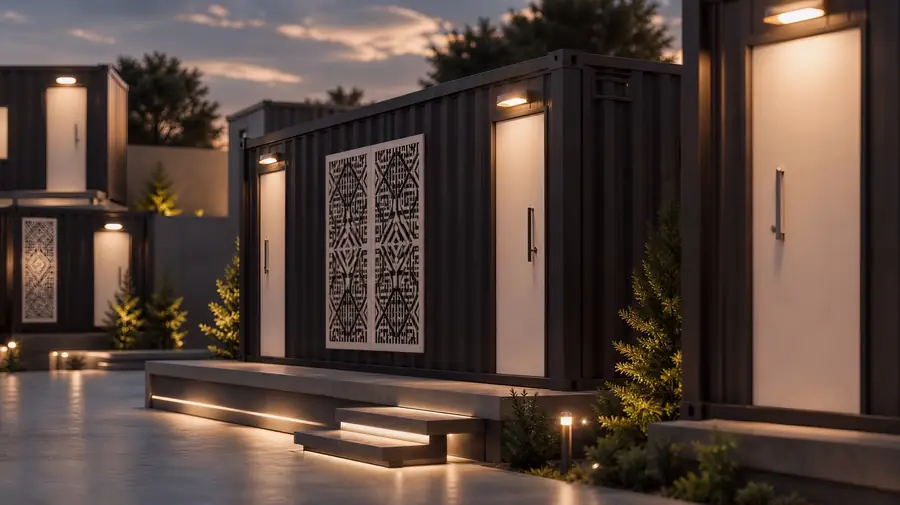
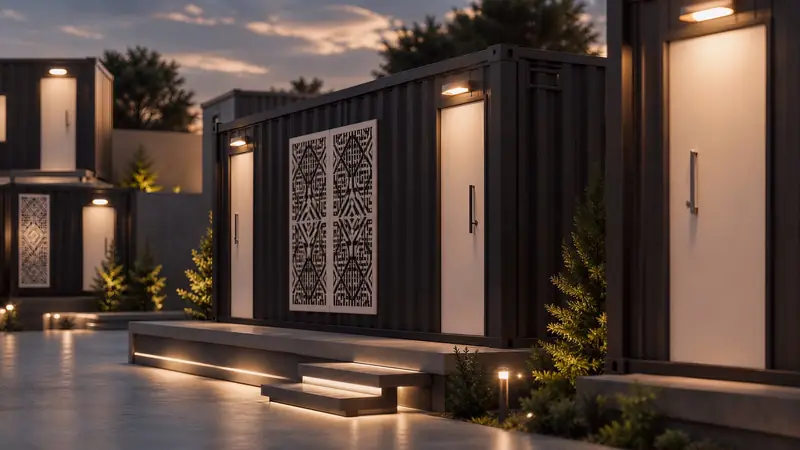
Fix PageSpeed: replace CMS Supabase JPGs, Cloudflare image cache, drop framer.
Map the live 1600px vision/rental uploads to display-sized WebPs, enable IMAGES binding plus public/_headers, and remove homepage framer-motion.

diff --git a/src/components/ProcessSection.tsx b/src/components/ProcessSection.tsx
@@ -1,6 +1,5 @@
 "use client";
 
-import { motion, useReducedMotion } from "framer-motion";
 import { ClipboardList, Factory, MessagesSquare } from "lucide-react";
 import { useLocalizedCms } from "@/components/CmsProvider";
 
@@ -8,7 +7,6 @@ const icons = [MessagesSquare, ClipboardList, Factory] as const;
 
 export function ProcessSection() {
   const { home, processSteps } = useLocalizedCms();
-  const reduceMotion = useReducedMotion();
 
   return (
     <section className="relative overflow-hidden bg-[#151b24] py-20 md:py-28">
@@ -31,13 +29,7 @@ export function ProcessSection() {
       />
 
       <div className="container-site relative">
-        <motion.div
-          className="mb-14 text-center"
-          initial={reduceMotion ? false : { opacity: 0, y: 20 }}
-          whileInView={{ opacity: 1, y: 0 }}
-          viewport={{ once: true, amount: 0.4 }}
-          transition={{ duration: 0.5 }}
-        >
+        <div className="mb-14 text-center animate-[fade-up_0.5s_ease-out_both]">
           <p className="mb-3 text-sm font-bold tracking-wide text-[var(--gold)]">
             {home.processEyebrow}
           </p>
@@ -48,23 +40,9 @@ export function ProcessSection() {
           <p className="mx-auto mt-5 max-w-xl text-sm leading-8 text-white/65 md:text-base">
             {home.processSubtitle}
           </p>
-        </motion.div>
+        </div>
 
-        <motion.div
-          className="relative grid gap-6 md:grid-cols-3 md:gap-7"
-          initial="hidden"
-          whileInView="visible"
-          viewport={{ once: true, amount: 0.25 }}
-          variants={{
-            hidden: {},
-            visible: {
-              transition: {
-                staggerChildren: reduceMotion ? 0 : 0.28,
-                delayChildren: reduceMotion ? 0 : 0.12,
-              },
-            },
-          }}
-        >
+        <div className="relative grid gap-6 md:grid-cols-3 md:gap-7">
           <div
             className="pointer-events-none absolute top-[4.5rem] right-[12%] left-[12%] hidden h-px bg-gradient-to-l from-transparent via-[var(--gold)]/40 to-transparent md:block"
             aria-hidden
@@ -73,20 +51,10 @@ export function ProcessSection() {
           {processSteps.map((step, index) => {
             const Icon = icons[index] ?? MessagesSquare;
             return (
-              <motion.article
+              <article
                 key={step.step}
-                className="group relative border border-white/10 bg-gradient-to-b from-white/[0.09] to-white/[0.03] p-8 text-center backdrop-blur-[2px] transition duration-300 hover:-translate-y-1.5 hover:border-[var(--gold)]/45 hover:bg-white/[0.12]"
-                variants={{
-                  hidden: reduceMotion
-                    ? { opacity: 1, y: 0, scale: 1 }
-                    : { opacity: 0, y: 36, scale: 0.96 },
-                  visible: {
-                    opacity: 1,
-                    y: 0,
-                    scale: 1,
-                    transition: { duration: 0.55, ease: [0.22, 1, 0.36, 1] },
-                  },
-                }}
+                className="group relative border border-white/10 bg-gradient-to-b from-white/[0.09] to-white/[0.03] p-8 text-center backdrop-blur-[2px] transition duration-300 hover:-translate-y-1.5 hover:border-[var(--gold)]/45 hover:bg-white/[0.12] animate-[fade-up_0.55s_ease-out_both]"
+                style={{ animationDelay: `${0.12 + index * 0.12}s` }}
               >
                 <div className="absolute inset-x-0 top-0 h-[2px] origin-center scale-x-50 bg-[var(--gold)]/70 transition duration-300 group-hover:scale-x-100" />
 
@@ -101,10 +69,10 @@ export function ProcessSection() {
                 </p>
                 <h3 className="text-xl font-extrabold text-white">{step.title}</h3>
                 <p className="mt-3 text-sm leading-7 text-white/65">{step.description}</p>
-              </motion.article>
+              </article>
             );
           })}
-        </motion.div>
+        </div>
       </div>
     </section>
   );

diff --git a/src/components/VisionSection.tsx b/src/components/VisionSection.tsx
@@ -1,36 +1,29 @@
 "use client";
 
 import Link from "next/link";
-import { motion, useReducedMotion } from "framer-motion";
 import { AnimatedMedia } from "@/components/AnimatedMedia";
 import { useLocalizedCms } from "@/components/CmsProvider";
 
 export function VisionSection() {
   const { home } = useLocalizedCms();
-  const reduceMotion = useReducedMotion();
 
   return (
     <section className="section-pad bg-white">
       <div className="container-site grid items-center gap-10 lg:grid-cols-2">
-        <motion.div
-          initial={reduceMotion ? false : { opacity: 0, x: 28 }}
-          whileInView={{ opacity: 1, x: 0 }}
-          viewport={{ once: true, amount: 0.35 }}
-          transition={{ duration: 0.55 }}
-        >
+        <div className="animate-[fade-up_0.55s_ease-out_both]">
           <h2 className="heading-display text-3xl md:text-4xl">{home.visionTitle}</h2>
           <p className="mt-5 leading-8 text-[#777]">{home.visionBody}</p>
           <Link href="/contact" className="btn-primary mt-8">
             {home.visionCta}
           </Link>
-        </motion.div>
+        </div>
 
         <div className="relative mx-auto w-full max-w-md lg:max-w-none">
           <AnimatedMedia
             src={home.visionImage || "/images/cms/luxury-cabins-field-services.webp"}
             alt={home.visionTitle || "خدمات ميدانية ووحدات متنقلة فاخرة"}
             className="aspect-[3/4] w-full"
-            sizes="(max-width:1024px) 90vw, 420px"
+            sizes="(max-width:640px) 92vw, (max-width:1024px) 420px, 448px"
             accent="both"
             spotCorner="bl"
           />

diff --git a/src/lib/seo/image-paths.ts b/src/lib/seo/image-paths.ts
@@ -2,10 +2,21 @@ import pathMap from "./image-path-map.json";
 
 const upgrades = pathMap as Record<string, string>;
 
-/** Rewrite legacy image URLs to SEO-friendly WebP paths. */
+function normalizeKey(input: string): string {
+  const trimmed = input.trim();
+  try {
+    // Decode once so map keys match both encoded and raw CMS URLs
+    return decodeURIComponent(trimmed);
+  } catch {
+    return trimmed;
+  }
+}
+
+/** Rewrite legacy / oversized CMS image URLs to SEO-friendly local WebP paths. */
 export function upgradeImagePath(input: string | undefined, fallback = ""): string {
-  const value = (input || "").trim() || fallback;
-  return upgrades[value] || value;
+  const value = normalizeKey((input || "").trim() || fallback);
+  if (!value) return fallback;
+  return upgrades[value] || upgrades[normalizeKey(value)] || value;
 }
 
 export function upgradeImageList(images: string[] | undefined): string[] {

diff --git a/src/app/layout.tsx b/src/app/layout.tsx
@@ -20,7 +20,7 @@ const noto = Noto_Sans_Arabic({
   subsets: ["arabic", "latin"],
   variable: "--font-noto",
   display: "swap",
-  weight: ["400", "500", "600", "700", "800"],
+  weight: ["400", "500", "600", "700"],
   preload: true,
 });
 
@@ -217,9 +217,10 @@ export default async function RootLayout({
           dangerouslySetInnerHTML={{
             __html: `
 html{scroll-behavior:smooth}
-body{margin:0;background:#fff;color:#0f0f0f}
+body{margin:0;background:#fff;color:#0f0f0f;font-family:var(--font-noto),system-ui,sans-serif}
 .container-site{width:min(1400px,calc(100% - 3rem));margin-inline:auto}
 header.fixed{position:fixed;inset-inline:0;top:0;z-index:50;background:#fff}
+.min-h-screen{min-height:100vh}
 `,
           }}
         />

diff --git a/src/components/ServicesSection.tsx b/src/components/ServicesSection.tsx
@@ -34,7 +34,7 @@ export function ServicesSection() {
                 src={service.image}
                 alt={`${service.title} — خدمات Luxury Cabins للوحدات المتنقلة`}
                 className="h-48"
-                sizes="(max-width:768px) 92vw, (max-width:1200px) 33vw, 400px"
+                sizes="(max-width:768px) 92vw, (max-width:1200px) 30vw, 380px"
                 spotCorner={index === 1 ? "tl" : index === 2 ? "br" : "tr"}
               />
               <div className="flex flex-1 flex-col p-7">

diff --git a/next.config.ts b/next.config.ts
@@ -8,8 +8,9 @@ const nextConfig: NextConfig = {
     formats: ["image/avif", "image/webp"],
     /** Cache optimized /_next/image responses for 30 days */
     minimumCacheTTL: 60 * 60 * 24 * 30,
-    deviceSizes: [640, 750, 828, 1080, 1200, 1920],
-    imageSizes: [48, 64, 96, 128, 256, 384],
+    /** Cap srcset widths — homepage cards never need 1920 */
+    deviceSizes: [640, 750, 828, 1080, 1200],
+    imageSizes: [48, 64, 96, 128, 140, 256, 384],
     remotePatterns: [
       {
         protocol: "https",

diff --git a/src/components/Header.tsx b/src/components/Header.tsx
@@ -44,13 +44,14 @@ export function Header() {
           <Image
             src="/logo/logo-header-sm.webp"
             alt={site.nameAr || "شعار Luxury Cabins"}
-            width={280}
-            height={172}
+            width={274}
+            height={168}
             sizes="140px"
             quality={75}
             className="h-12 w-auto object-contain md:h-[4.75rem]"
             priority
             fetchPriority="high"
+            unoptimized
           />
         </Link>
 

diff --git a/src/app/globals.css b/src/app/globals.css
@@ -282,6 +282,17 @@ body {
   }
 }
 
+@keyframes fade-up {
+  from {
+    opacity: 0;
+    transform: translateY(1.25rem);
+  }
+  to {
+    opacity: 1;
+    transform: translateY(0);
+  }
+}
+
 @media (prefers-reduced-motion: reduce) {
   html {
     scroll-behavior: auto;
